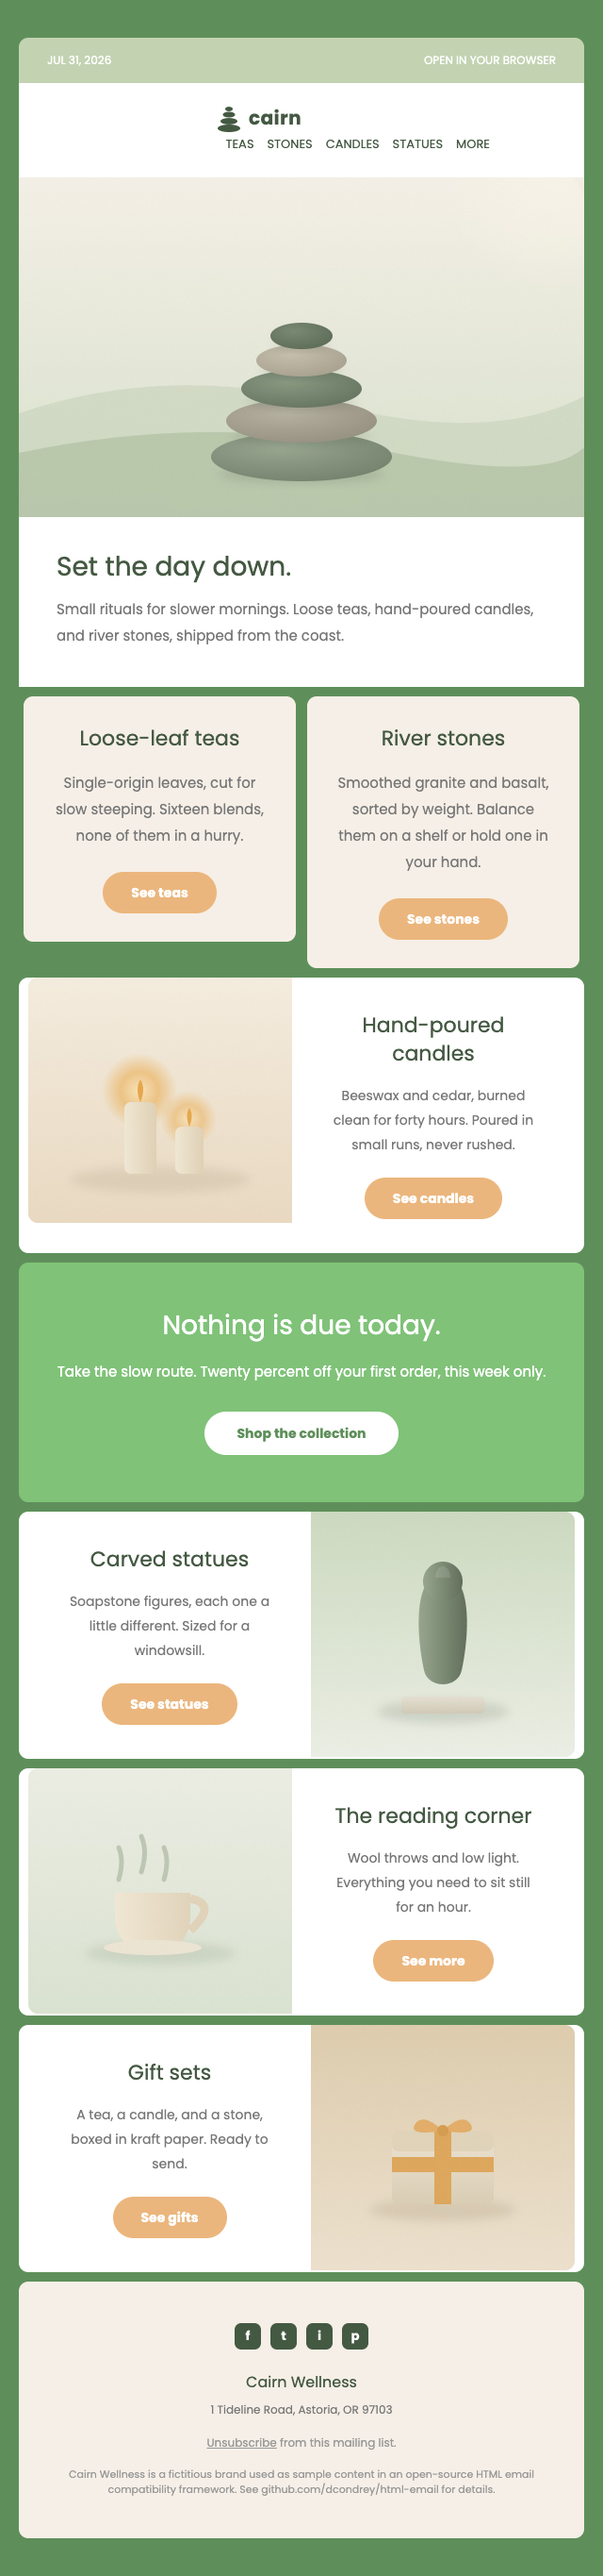
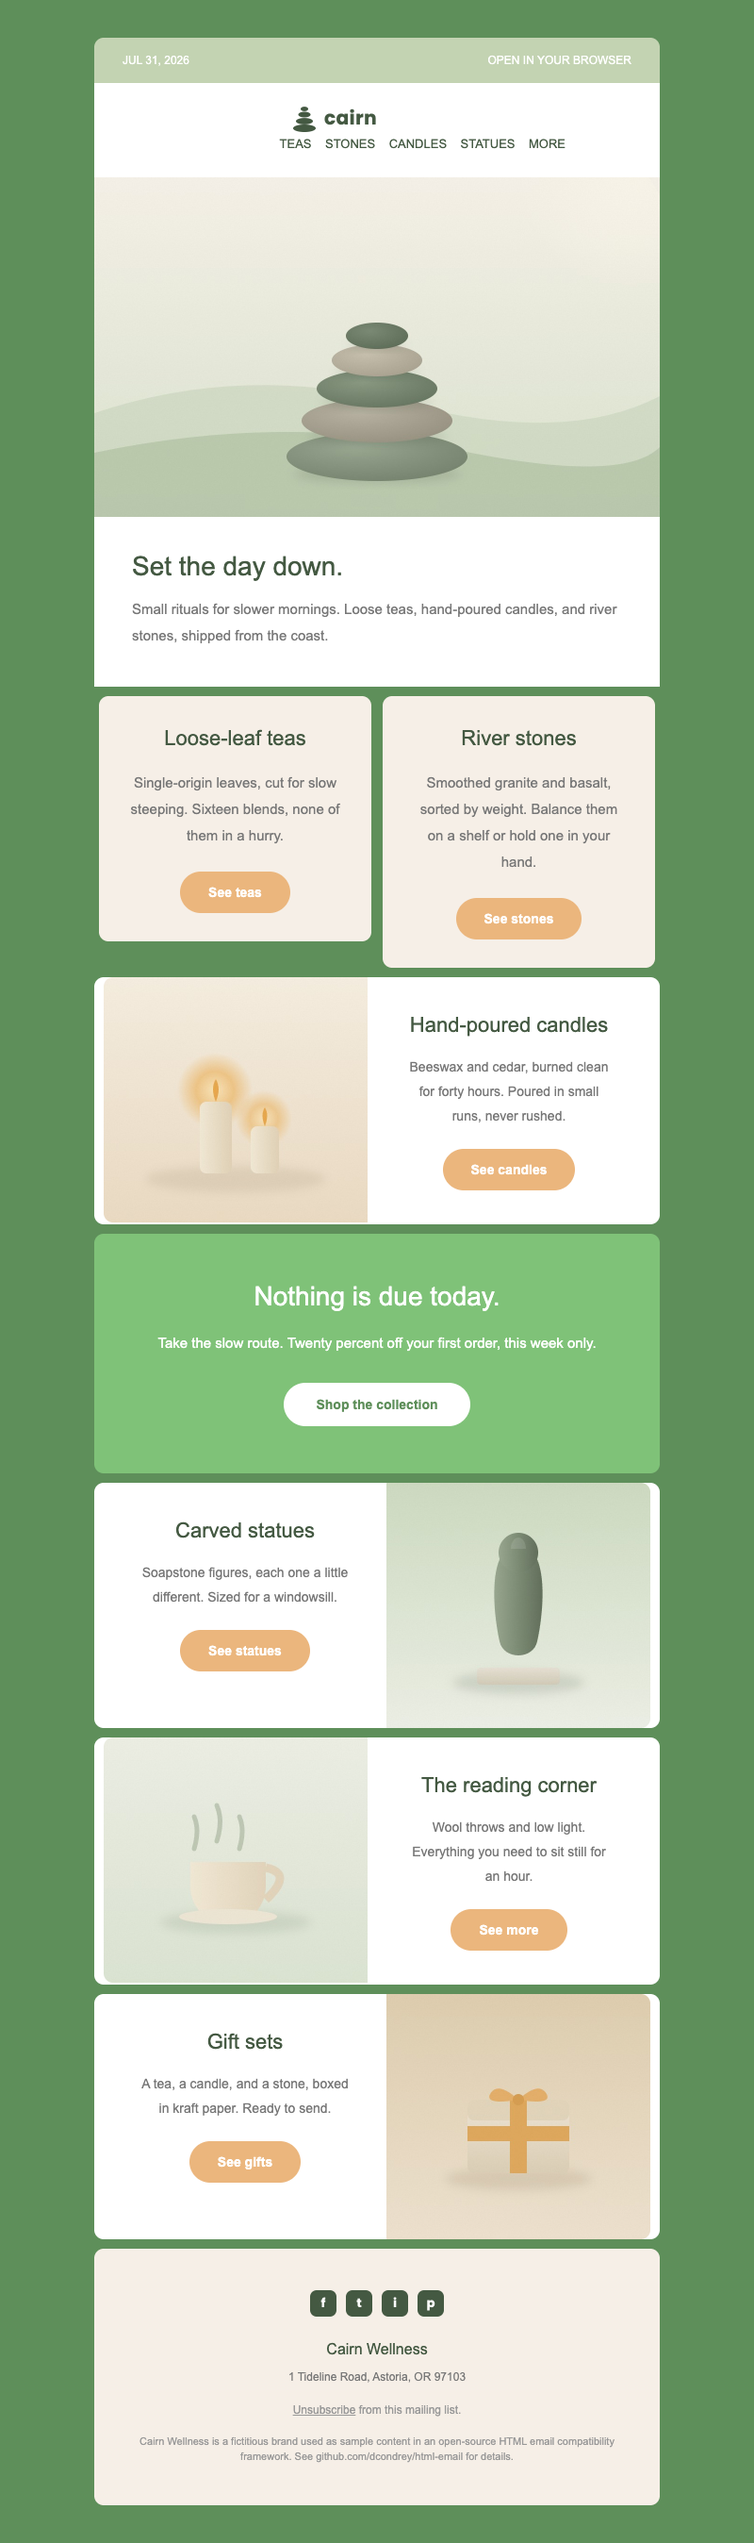
feat: generate showcase previews for every template, add README gallery
generate-previews.mjs now renders each templates/*/dist to docs/preview/<name>.png
(desktop-light, the same convention cairn-wellness.png follows) alongside the
framework shots, so npm run previews refreshes the whole set. Add a five-up
template gallery to the README linking each preview to its source.

diff --git a/README.md b/README.md
@@ -121,6 +121,10 @@ node framework/build/lint.mjs templates/cairn-wellness/dist/email.html
 | `templates/voltline/` | Electronics sale, dark-first (dark+pink, Space Grotesk · date-list + pricing table) | ✅ |
 | `templates/meridian-advisory/` | Consulting / corporate (charcoal+coral on grey, IBM Plex Sans · quote block) | ✅ |
 
+| Cairn Wellness | Ferry Street Brewing | Lantern & Quill | Voltline | Meridian Advisory |
+|:---:|:---:|:---:|:---:|:---:|
+| [![Cairn Wellness](docs/preview/cairn-wellness.png)](templates/cairn-wellness/) | [![Ferry Street Brewing](docs/preview/ferry-street-brewing.png)](templates/ferry-street-brewing/) | [![Lantern & Quill](docs/preview/lantern-and-quill.png)](templates/lantern-and-quill/) | [![Voltline](docs/preview/voltline.png)](templates/voltline/) | [![Meridian Advisory](docs/preview/meridian-advisory.png)](templates/meridian-advisory/) |
+
 Brand names and imagery are fictitious mock content for demonstration; imagery is self-authored,
 generated by `scripts/`.
 
